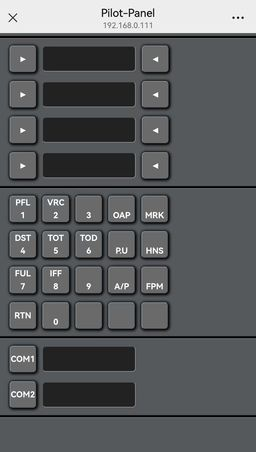
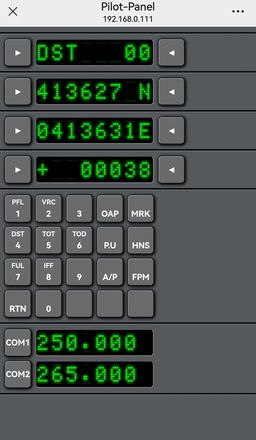
no message

diff --git a/web/dcs-f16-ufc.js b/web/dcs-f16-ufc.js
@@ -23,11 +23,11 @@ app.controller("dcsF16Ufc" + "Controller", [
             aircraft = aircraft.trim();
             console.info("aircraft", ">>" + aircraft + "<<");
             //
-            $scope.watchData("ded_display_1", { type: 'string', address: 0x450a, maxLength: 29 });
-            $scope.watchData("ded_display_2", { type: 'string', address: 0x450a, maxLength: 29 });
-            $scope.watchData("ded_display_3", { type: 'string', address: 0x450a, maxLength: 29 });
-            $scope.watchData("ded_display_4", { type: 'string', address: 0x450a, maxLength: 29 });
-            $scope.watchData("ded_display_5", { type: 'string', address: 0x450a, maxLength: 29 });
+            $scope.watchData("ded_display_1", { type: 'string', address: 0x450a, maxLength: 29 }, $scope.displayChange);
+            $scope.watchData("ded_display_2", { type: 'string', address: 0x450a, maxLength: 29 }, $scope.displayChange);
+            $scope.watchData("ded_display_3", { type: 'string', address: 0x450a, maxLength: 29 }, $scope.displayChange);
+            $scope.watchData("ded_display_4", { type: 'string', address: 0x450a, maxLength: 29 }, $scope.displayChange);
+            $scope.watchData("ded_display_5", { type: 'string', address: 0x450a, maxLength: 29 }, $scope.displayChange);
 
             $scope.watchData("comm1_freq", { type: 'string', address: 0x45c8, maxLength: 7 });
             $scope.watchData("comm2_freq", { type: 'string', address: 0x45d0, maxLength: 7 });
@@ -51,9 +51,22 @@ app.controller("dcsF16Ufc" + "Controller", [
             $scope.sendCommand(command);
         }
 
-        $scope['ded_display_1'] = "ABCDEFGHIJKLMNOPQRSTUVWXYZ";
+        $scope.displayChange = function () {
+            let text = "";
+            text += $scope['ded_display_1'].padEnd(29, " ");
+            text += $scope['ded_display_2'].padEnd(29, " ");
+            text += $scope['ded_display_3'].padEnd(29, " ");
+            text += $scope['ded_display_4'].padEnd(29, " ");
+            text += $scope['ded_display_5'].padEnd(29, " ");
+            $scope['ded_display_a'] = text;
+        }
+
+        $scope['ded_display_1'] = "ABCDEFGHIJKLMNOPQRSTUVWXYZ012";
         $scope['ded_display_2'] = "0123456789";
         $scope['ded_display_3'] = "CONNECTING TO SERVER......";
         $scope['ded_display_4'] = "WAITING FOR NOTICE........";
+        $scope['ded_display_5'] = "F-16";
+
+        $scope.displayChange();
     },
 ]);

diff --git a/web/dcs-f16-ufc.html b/web/dcs-f16-ufc.html
@@ -6,6 +6,10 @@
     .g-led-a {
         grid-column-end: span 8;
         grid-template-columns: repeat(29, 1fr);
+        height: unset;
+        grid-template-rows: repeat(5, 1fr);
+        grid-gap: 5px 0px;
+        padding: 2px;
     }
 
     .g-led-a>* {
@@ -16,11 +20,7 @@
 <div class="p-root flex-pv">
     <div class="g-root">
         <g-sep></g-sep>
-        <g-led class="g-led-a g-newline" text="ded_display_1"></g-led>
-        <g-led class="g-led-a g-newline" text="ded_display_2"></g-led>
-        <g-led class="g-led-a g-newline" text="ded_display_3"></g-led>
-        <g-led class="g-led-a g-newline" text="ded_display_4"></g-led>
-        <g-led class="g-led-a g-newline" text="ded_display_5"></g-led>
+        <g-led class="g-led-a g-newline" text="ded_display_a"></g-led>
         <g-sep></g-sep>
         <g-btn title="COM1" g-touch="onTouch('ICP_COM1_BTN', 1, 0, $event)"></g-btn>
         <g-btn title="COM2" g-touch="onTouch('ICP_COM1_BTN', 1, 0, $event)"></g-btn>

diff --git a/web/index.js b/web/index.js
@@ -75,7 +75,7 @@ app.controller('gLed' + 'Controller',
             $scope.getCharStyle = function (c) {
                 // background-position: calc(2px - var(--s)* 4) calc(1px - var(--s)* 0);
                 let style = {};
-                const cs = " 0123456789ABCDEFGHIJKLMNOPQRSTUVWXYZ*+-\\/()[]{}<>=?^!#%^&°.:,~_'\"";
+                const cs = " 0123456789ABCDEFGHIJKLMNOPQRSTUVWXYZ*+-/\\()[]{}<>=?^!#%^&°.:,~_'\"";
                 let idx = cs.indexOf(c);
                 let x = 0;
                 let y = 0;
